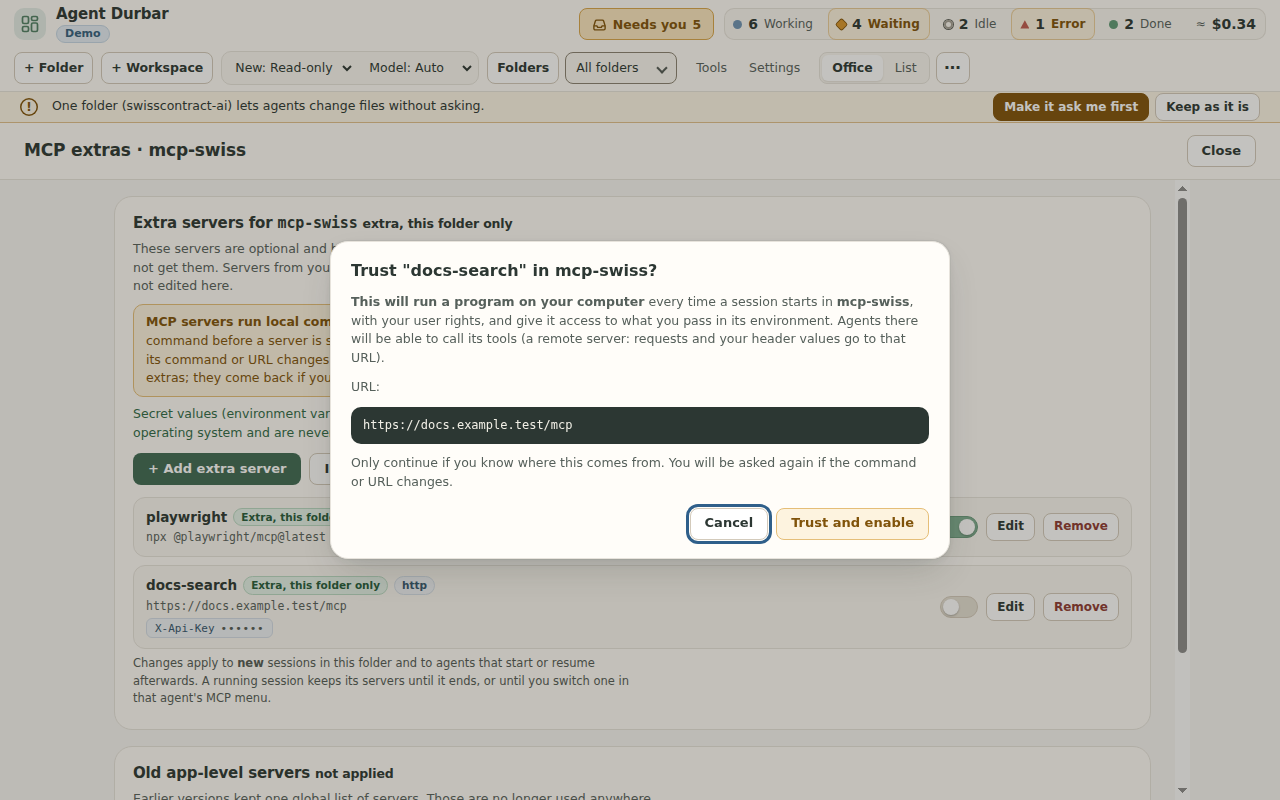
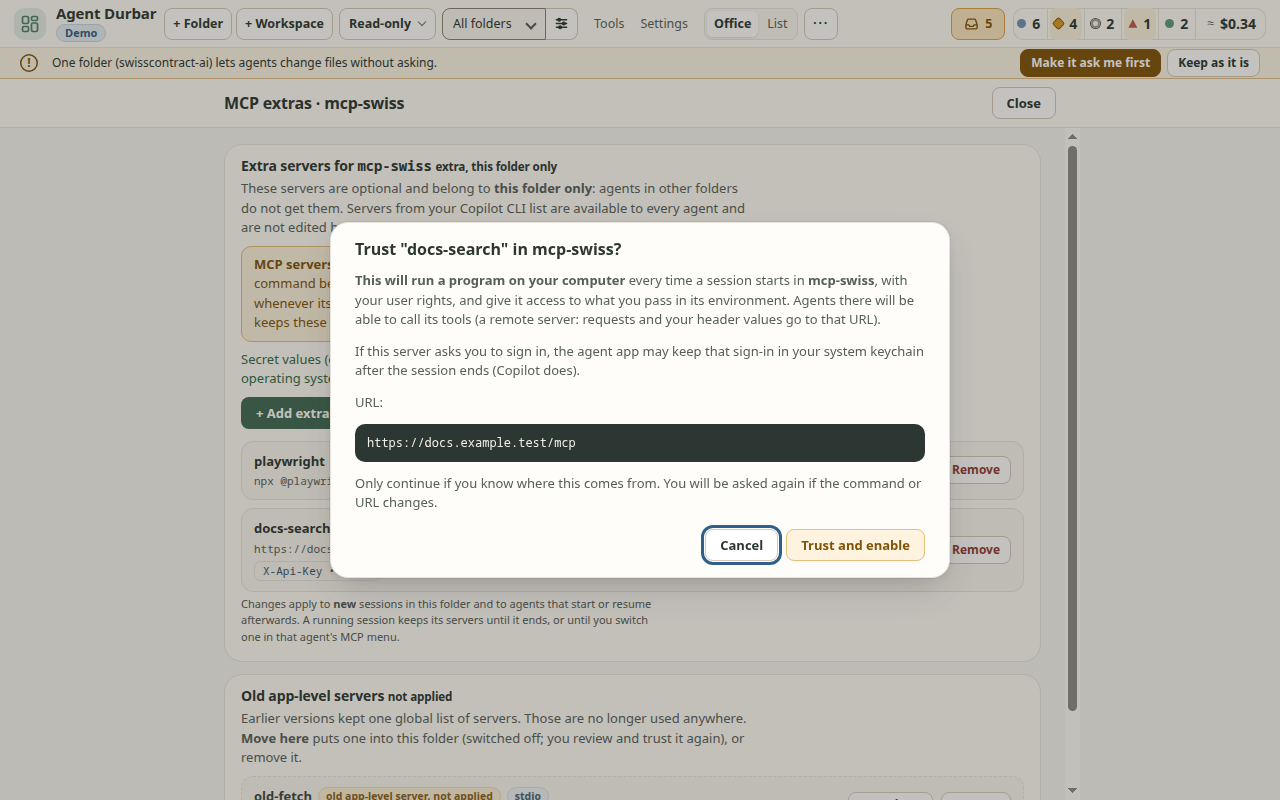
058 FR-070: Copilot sessions keep MCP sign-ins in the OS keychain
Set mcpOAuthTokenStorage: 'persistent' in the shared Copilot session
config (create, resume, reconnect re-resume; not one-shot or rename),
fake-SDK checks for each. Trust prompt for remote extras says a sign-in
may outlive the session (FR-076, T111 part). README, CHANGELOG,
agent-notes Keychain entry, spec/tasks notes; trust screenshots.

diff --git a/scripts/test-copilot-model.ts b/scripts/test-copilot-model.ts
@@ -259,6 +259,7 @@ async function main(): Promise<void> {
     assert.strictEqual(fake.created[0].model, 'auto');
     assert.ok(!('contextTier' in fake.created[0]));
     assert.strictEqual(fake.created[0].enableFileHooks, false, 'spec 061 FR-017: a repository\'s own hooks never run unasked');
+    assert.strictEqual(fake.created[0].mcpOAuthTokenStorage, 'persistent', 'spec 058 FR-070: MCP sign-ins kept in the OS keychain (create)');
     await ad.setModel(sid, { model: 'sim-deep', effort: 'high', contextTier: 'long' });
     await ad.stop(sid);
     // main saves the switched choice with the folder and passes it on the next start under the same id
@@ -270,12 +271,14 @@ async function main(): Promise<void> {
     assert.strictEqual(rc.reasoningEffort, 'high');
     assert.strictEqual(rc.contextTier, 'long_context');
     assert.ok(!('capi' in rc));
+    assert.strictEqual(rc.mcpOAuthTokenStorage, 'persistent', 'spec 058 FR-070: also on resume by session id');
     await ad.stop(sid);
     // an auto session that is resumed keeps the runtime's own routing
     const a2 = await ad.start({ workspace: dir, resumeSessionId: sid, model: 'auto', autoTier: 'efficiency', quiet: true });
     assert.ok(!('capi' in fake.resumed[1].config), 'no autoTier override on resume');
     assert.strictEqual(fake.resumed[1].config.model, 'auto');
     assert.strictEqual(fake.resumed[1].config.enableFileHooks, false, 'spec 061 FR-017: also on resume');
+    assert.strictEqual(fake.resumed[1].config.mcpOAuthTokenStorage, 'persistent', 'spec 058 FR-070: also on resume (resumeSessionId)');
     await ad.stop(a2);
     // a session id not on disk is created with exactly that id and the saved choice
     const a3 = await ad.start({ workspace: dir, sessionId: 'brand-new', model: 'sim-fast', contextTier: 'long', quiet: true });

diff --git a/src/renderer/screens.js b/src/renderer/screens.js
@@ -532,6 +532,7 @@
       const t=r.needsTrust;
       const run=t.transport==='stdio'?[t.command].concat(t.args||[]).join(' '):t.url;
       const ok=await dialog({title:'Trust "'+t.name+'" in '+st.name+'?',wide:true,html:`<p class="dsub"><b>This will run a program on your computer</b> every time a session starts in <b>${esc(st.name)}</b>, with your user rights, and give it access to what you pass in its environment. Agents there will be able to call its tools${t.transport==='stdio'?'':' (a remote server: requests and your header values go to that URL)'}.</p>
+        ${t.transport==='stdio'?'':'<p class="dsub">If this server asks you to sign in, the agent app may keep that sign-in in your system keychain after the session ends (Copilot does).</p>'}
         <p class="dsub">${t.transport==='stdio'?'Command':'URL'}:</p><pre class="trustcmd" tabindex="0">${esc(run)}</pre>${t.workingDirectory?`<p class="dsub">Working directory: <code>${esc(t.workingDirectory)}</code></p>`:''}
         <p class="dsub">Only continue if you know where this comes from. You will be asked again if the command or URL changes.</p>`,
         buttons:[{label:'Cancel',value:null},{label:'Trust and enable',value:'ok',cls:'primary warn'}]});

diff --git a/src/adapters/copilot.ts b/src/adapters/copilot.ts
@@ -568,6 +568,11 @@ export class CopilotAdapter implements AgentAdapter {
       // `.github/copilot/settings.json`) at session start and on each prompt, unasked, even in Read-only. Off until the
       // folder-setup dialog (spec 061) lets the person accept them; on create AND resume (the same config).
       enableFileHooks: false,
+      // spec 058 FR-070 (owner Q12 B): the runtime keeps an MCP server's OAuth sign-in in the OS keychain (types.d.ts: "shared
+      // across sessions"); the SDK default "in-memory" drops it when the session ends. The runtime's own store: Durbar never
+      // reads, lists or clears it. On create AND resume (the same config), so the FR-158 reconnect re-resume keeps it; not in
+      // `oneShotConfig` or `renameResumeConfig` (no MCP there).
+      mcpOAuthTokenStorage: 'persistent' as const,
     };
     this.debug?.(`mcp: servers=[${Object.keys(options.mcpServers ?? {}).join(',')}] disabled=[${(options.disabledMcpServers ?? []).join(',')}]`);
     let session: CopilotSession;

diff --git a/scripts/test-authcheck.ts b/scripts/test-authcheck.ts
@@ -168,6 +168,8 @@ void (async () => {
     // spec 061 FR-017: the reconnect re-resume keeps the folder's file hooks off, like create and resume
     assert.strictEqual(ra.enableFileHooks, false, 'refreshAuth re-resume: repository file hooks stay off (FR-017)');
     assert.strictEqual(rb.enableFileHooks, false, 'refreshAuth re-resume: repository file hooks stay off (FR-017)');
+    // spec 058 FR-070: the re-resume keeps MCP sign-ins in the OS keychain too
+    assert.strictEqual(ra.mcpOAuthTokenStorage, 'persistent', 'refreshAuth re-resume: persistent MCP token storage (058 FR-070)');
     assert.ok(c2.sessions.get(b)!.calls.some((x) => x.name === 'mcp.disable'), 'an MCP server switched off stays off');
     const intents = (sid: string) => events.filter((e) => e.sessionId === sid && e.type === 'status').map((e) => (e as { intent?: string }).intent);
     assert.ok(intents(a).includes('Reconnecting Copilot…'));

diff --git a/scripts/shots-m10.js b/scripts/shots-m10.js
@@ -76,6 +76,7 @@ module.exports = async (ctx) => {
     await shot('folder-extras', w, h);
     await click('li.srv[data-name="docs-search"] [data-act="toggle"]'); await ctx.sleep(400);
     assert.match(await text('#scrDlg'), /Trust "docs-search" in mcp-swiss/);
+    assert.match(await text('#scrDlg'), /may keep that sign-in in your system keychain/, 'spec 058 FR-076: a remote extra says a sign-in may outlive the session');
     await shot('folder-trust', w, h);
     await closeDlg(); await ctx.sleep(200);
     await closeScreen(); await ctx.sleep(300);

diff --git a/scripts/test-copilot-oneshot.ts b/scripts/test-copilot-oneshot.ts
@@ -38,6 +38,7 @@ async function main(): Promise<void> {
   assert.strictEqual(c.skipCustomInstructions, true);
   assert.strictEqual(c.enableOnDemandInstructionDiscovery, false);
   assert.strictEqual(c.enableFileHooks, false);
+  assert.ok(!('mcpOAuthTokenStorage' in c), 'spec 058 FR-070: the one-shot (no MCP) keeps the SDK default');
   assert.strictEqual(c.enableHostGitOperations, false);
   assert.strictEqual(c.enableSessionStore, false);
   assert.deepStrictEqual(c.memory, { enabled: false });

diff --git a/README.md b/README.md
@@ -84,6 +84,7 @@ Agent Durbar is an office-style desktop app to **see, chat with and coordinate A
 - **MCP servers:**
   - your Copilot CLI list (`~/.copilot/mcp-config.json`) is used first;
   - each folder can add extras (with a trust prompt), import them from `.vscode/mcp.json`, and switch a server on or off per session.
+  - Copilot sessions keep an MCP server's sign-in (OAuth) in your system keychain (the SDK's "OS keychain": Credential Manager on Windows, Keychain on macOS; on Linux the desktop keyring, not checked), so one sign-in is shared by your Durbar sessions and survives the end of a session and a restart. The Copilot runtime keeps it; Durbar never reads it. Set on create and resume and tested on the SDK fake only, not yet on a real account ([spec 058](specs/058-mcp-session-controls/spec.md) FR-070);
   - when a server asks you for input (a small form, or a sign-in page), the chat shows it with **Submit / Decline / Cancel**; a page opens in your browser only after you click, and only if it is https (simulator and test harnesses only so far, not yet tried with a real server).
 - **Tools** shows what each agent used, for *This session* and *All time*, and a **Cost** tab with each folder's ≈ money, AIU, Claude estimate, tokens and calls (the same *This session* or *All time*, with the start date under it), with **Copy as CSV**. Clicking a room's cost opens it.
 - **Activity** (Tools > Activity) is a local log for a team lead: every answer to a permission request, every automatic approval (Allow all or a session permission), and every mode or spending-limit change, with time, agent, folder, agent app and mode. It keeps the newest 5000 rows on this computer, holds actions and decisions only (never prompts, replies or file contents), and exports to CSV or JSON. Claude Code and Codex in Allow all approve inside their own process, so their automatic approvals are not listed (Copilot's are).
@@ -261,7 +262,7 @@ npm run check:fuses-launch  # on demand, after pack:dir: the packed Linux app op
 - **Windows has not been used by hand.** Linux is used every day and macOS on real Macs (from source and the simulator). A packaged-app check runs on all three in CI, and real-account end-to-end runs on all three are in review (#402), but nobody has used the Windows build on a real PC, or the packaged macOS `.dmg` day to day.
 - **Where your data lives:** the installed app keeps its settings, folders and saved MCP servers in `agent-durbar` under the OS app-data folder (`%APPDATA%` on Windows, `~/Library/Application Support` on macOS, `~/.config` on Linux). `npm start` and the simulator use their own `agent-durbar-dev` folder next to it, so developing never touches the installed app's data. To keep data from an older dev run, start once with `DURBAR_USER_DATA=<old folder>` or copy the folder by hand.
 - **Unsigned builds:** expect the OS warnings above.
-- **Keychain prompts on a Mac:** macOS may ask whether Agent Durbar can use your Keychain. Durbar's own item (`agent-durbar Safe Storage`, which protects saved MCP secret values) is read at most once per run, and only when a server with secrets starts or you change a secret; the item's name stays the same across versions. Copilot's own items (your `copilot login` and MCP sign-ins) are read by the Copilot runtime inside the app, so each can ask once too. Because the builds are not signed with an Apple Developer ID, the Keychain sees each new version as a new app: **Always Allow** holds until the next update, then each item asks once more. Code signing ([#4](https://github.com/three-feathers/agent-durbar/issues/4)) would end that. Checked with unit tests only; the number of prompts was not counted on a real Mac.
+- **Keychain prompts on a Mac:** macOS may ask whether Agent Durbar can use your Keychain. Durbar's own item (`agent-durbar Safe Storage`, which protects saved MCP secret values) is read at most once per run, and only when a server with secrets starts or you change a secret; the item's name stays the same across versions. Copilot's own items (your `copilot login` and, since Durbar asks Copilot to keep them (spec 058 FR-070), the MCP servers' sign-ins) are read and written by the Copilot runtime inside the app, so each can ask once too: expect a prompt the first time a session uses an MCP server you signed in to. Because the builds are not signed with an Apple Developer ID, the Keychain sees each new version as a new app: **Always Allow** holds until the next update, then each item asks once more. Code signing ([#4](https://github.com/three-feathers/agent-durbar/issues/4)) would end that. Checked with unit tests only; the number of prompts was not counted on a real Mac.
 - **Names in packaged builds:** the display name is `Agent Durbar` (Start menu and desktop shortcuts, Add/Remove Programs, `.app`, AppImage `Name=`), while the run-time identity stays `agent-durbar` on every OS (profile folder, Keychain, WM_CLASS). `scripts/check-names.js` compares the packed app with `package.json` on every package build. On Windows a packaged build sets the AppUserModelId `io.github.three-feathers.agentdurbar` so toasts and the taskbar match the Start menu shortcut. Checked on a real Linux build (AppImage `.desktop`, packed app started on the simulator); the Windows names and AUMID and the macOS bundle names are asserted only by the *Installed app* workflow in CI, and the taskbar, toasts, Mac menu-bar title and a Linux launcher or dock were not seen on a real desktop ([#9](https://github.com/three-feathers/agent-durbar/issues/9)).
 - **No debugger in packaged builds:** release builds ignore `--inspect`, `NODE_OPTIONS` and `ELECTRON_RUN_AS_NODE` (Electron fuses; `scripts/check-fuses.js` reads them from the packed binary on every package build on Linux, macOS and Windows: `pack:dir`, the `dist*` scripts, and so the packaged-check workflow and the release build) and always drop `remote-debugging-port` and `remote-debugging-pipe`, whatever the spelling. Run from source (`npm start`) to debug. Checked on the packed Linux build, including `-remote-debugging-port` with one dash (`npm run check:fuses-launch`); the fuse check itself has been run locally on Linux only, and macOS and Windows have not been tried by hand (on Windows Chromium also accepts `/` and any case, which the guard covers by removing the switches by name). The ASAR integrity fuse has no effect on Linux.
 - **VS Code's own chats are read-only.** VS Code keeps them in an undocumented store that cannot be continued from outside; Durbar shows a copy. Copilot CLI/SDK sessions *can* be resumed.
@@ -269,6 +270,7 @@ npm run check:fuses-launch  # on demand, after pack:dir: the packed Linux app op
 - **Floors that are off are quiet:** their agents keep running and can spend credits or wait for an approval.
 - **Schedules run only while the app is open**, and a schedule's limit counts usage from its send until that turn ends (a message you send during that turn counts too). The agent app's own schedules are only shown for Copilot and only when reported while Durbar runs; none of this has been tried on a real session yet.
 - **Session names:** the rename into Copilot, Codex and Claude Code was checked on real accounts only by another team member's agent, which ran the raw protocol and CLI calls by hand and looked at the CLI lists (Durbar's own adapters ran on fakes only), not in VS Code; Claude Code applies the name at the next message (it relies on the undocumented `CLAUDE_CODE_ENTRYPOINT` value of spec 012 FR-159 to show in `/resume`), and the VS Code Claude extension's list did not show a `-p` session at all in a real check on a Mac (untested with that value).
+- **MCP sign-ins (Copilot):** whether a sign-in you made in the Copilot CLI (`/mcp auth`) is seen by a Durbar session, and the other way round, is not verified ([spec 058](specs/058-mcp-session-controls/spec.md) FR-068/FR-074, real check T105 pending). Keeping sign-ins in the keychain (FR-070) is checked on the SDK fake only; what the runtime does on Linux without a desktop keyring was not checked.
 - **Imported MCP config:** importing from `.vscode/mcp.json` is a one-time copy per folder.
 - **Moving targets:** harness protocols change, so versions are pinned and checked.
 

diff --git a/specs/058-mcp-session-controls/spec.md b/specs/058-mcp-session-controls/spec.md
@@ -485,6 +485,12 @@ token**. Where the call is missing (older runtime, refused, not live), Durbar sh
   runtime's own store, not Durbar storage: Durbar never reads, lists, copies or clears it, and never logs the setting's effect. The
   one-shot session (spec 040 `oneShotConfig`, no MCP) is unchanged. Whether the entry is shared with the Copilot CLI is unverified
   (FR-074, T105).
+  `[IMPLEMENTED]` 2026-10-21 (the FR-070 part of T098, see *Changes* 2026-10-21): in the shared `config` of `start()` in
+  `src/adapters/copilot.ts`, so create, both resume paths and the FR-158 reconnect re-resume carry it; not in `oneShotConfig` or
+  `renameResumeConfig`. `test:` `scripts/test-copilot-model.ts` (create, resume by id, `resumeSessionId`), `scripts/test-authcheck.ts`
+  (reconnect), `scripts/test-copilot-oneshot.ts` (one-shot without it). `[KNOWN GAP]` not run on a real account: that the runtime
+  really writes the keychain entry, how many macOS Keychain prompts it adds, Linux without a desktop keyring, and sharing with the
+  CLI (T105).
 - **FR-071** **Simulator** (constitution IV): page address `simmcpauth=1` gives each sim kind one server in needs-auth and a Copilot tool
   card with the issue's exact text; **Sign in** -> host `auth.example.com` -> **Open sign-in page** shows a toast and opens nothing ->
   "Running" after 2 s (Codex: "applies with your next message"). `simmcpauth=manual` shows the FR-068 steps instead.
@@ -508,6 +514,10 @@ token**. Where the call is missing (older runtime, refused, not live), Durbar sh
   per-folder extra stays in the OS keychain after the session ends. The per-folder extras trust confirmation (spec 019) gets one
   more sentence: "If one of these servers asks you to sign in, <App> may keep that sign-in in your system keychain after the session
   ends." The FR-069 waiting text says the same for Copilot ("Copilot keeps this sign-in in your system keychain").
+  `[IMPLEMENTED]` 2026-10-21 for the trust confirmation, remote extras only (a stdio server has no OAuth sign-in), with the app left
+  generic because the confirmation belongs to the folder, not to one agent app: "If this server asks you to sign in, the agent app may
+  keep that sign-in in your system keychain after the session ends (Copilot does)." (`src/renderer/screens.js`, `sim:`
+  `scripts/shots-m10.js`, screenshots `m10-folder-trust-*`). The waiting text waits for T102.
 - **FR-074** `[KNOWN GAP]` Until the real checks (tasks T105-T107, needs-owner-approval, 0 AI credits, no prompt) run, everything above is
   `read:`: the three login calls, the Claude stream-json handler (the docs say `-p` and SDK runs cannot sign in; the 2.1.304 program
   strings handle `mcp_authenticate` there), whether Codex 0.163 has `mcpServer/oauth/login`, how long each runtime's callback listener
@@ -555,3 +565,18 @@ below as the record of what was offered.
   these servers* by itself after the sign-in.
 - **Q19 "Sign in with another account"** (Copilot `forceReauth`, Claude `mcp_clear_auth`). A) Not offered now (recommended). B) Offer it in
   the row's *Details*.
+
+### 2026-10-21: Copilot keeps MCP sign-ins (FR-070 and the T111 wording first)
+
+**Why now**: the owner (Vikram) found on Windows that an MCP sign-in made in one Durbar Copilot session was not kept for the next
+one: `src/adapters/copilot.ts` never set `mcpOAuthTokenStorage`, so the SDK default `in-memory` applied (`read:`
+`types.d.ts:2386-2393`). FR-070 is independent of the sign-in flow (T098's `startMcpSignIn`), so it ships on its own.
+
+**Who**: by agreement in the team chat, Vikram's agent takes the FR-070 part of **T098** and the trust-confirmation part of **T111**
+(FR-076); Paco (spec owner) keeps the rest of T098 (`startMcpSignIn`, fake SDK recorder) and T111's waiting text (with T102). Task
+numbers and Paco's open work (PR #466, branch `058-mcp-oauth-impl`, T112-T115) are unchanged; T098 is ticked by Paco's PR when its
+sign-in part lands.
+
+**Done**: FR-070 `[IMPLEMENTED]`; FR-076 trust sentence `[IMPLEMENTED]`; README *MCP servers*, *Keychain prompts on a Mac* and a
+*Known limits* line (Copilot CLI sharing unverified, FR-068/FR-074, T105); CHANGELOG. Not run on a real account.
+

diff --git a/CHANGELOG.md b/CHANGELOG.md
@@ -10,6 +10,7 @@ Agent Durbar is an alpha. Builds are unsigned and have only been run by hand on 
 - Test tooling only: every simulator driver now takes its helpers (`js`, click, key, page load, screenshot, escaping of values put into page code) from `scripts/driver-helpers.js` instead of its own copy; no check was changed (spec 008 FR-097, T094, #414).
 - **Security:** Copilot sessions no longer run a repository's own hooks (`.github/hooks/`, `.github/copilot/settings.json`) unasked. A real check found the Copilot runtime ran them by default, even in Read-only; they stay off until the folder-setup dialog (spec 061) lets you accept them.
 - **Fewer Keychain prompts on a Mac** (spec 019 FR-023; owner's report "a ton of allow prompts when I open Durbar"). Durbar decrypted every saved MCP secret value at launch, one Keychain read each, even for servers that never start. Now all values are one encrypted blob that is read at most once per run, only when a server with secrets starts or you change a secret; opening the app or Settings reads nothing. Saved files are converted on that first read. "Always Allow" still has to be given again after each update while builds are unsigned (#4); Copilot's own Keychain items can also ask. Unit tests with a counting fake; not run on a real Mac.
+- **MCP sign-ins kept between Copilot sessions** (spec 058 FR-070, owner's Q12 B; owner's report on Windows). Copilot sessions now ask the runtime to keep an MCP server's OAuth sign-in in the system keychain (Credential Manager on Windows, Keychain on macOS) instead of the SDK default, memory only, which dropped it when the session ended. One sign-in now serves every Durbar Copilot session; Durbar never reads it. The trust prompt for a remote per-folder extra says a sign-in may outlive the session (FR-076). On a Mac the runtime's Keychain items can ask once each (not counted on a real Mac). Tested on the SDK fake only; sharing with a sign-in made in the Copilot CLI is not verified (T105).
 
 - **+ Folder and + Workspace are back in plain sight** (spec 052 FR-164, owner request): two labelled buttons at the left end of the top bar, first in tab order, instead of the **+ New** menu; **Ctrl+O** / **Ctrl+Shift+O** press them, and on a Mac a **File** menu has **Add Folder…** (⌘O), **Add VS Code Workspace…** (⇧⌘O) and **Close Window**. Same code path as the buttons. To keep one row, the counters keep their words from 1920px, the Defaults chip shows only the mode below 1600px, and the app name gives way to its mark when the row would wrap. Simulator and unit tests on Linux; not run on a real Mac or Windows PC.
 - **A session comes back in its own permission mode, and says so** (spec 003, 2026-10-21 delta; owner's report "a session I had set to Allow all came back in Read-only"). Durbar remembered one mode per folder, so after a restart every session of a folder took the mode last chosen in *any* of its sessions, and a session resumed from *Previous sessions* took the mode of the session you opened the list from, both without a word. Now each session's last mode is kept (ids and modes only, newest 50 per folder) and restored; the chat says which mode it is in and why, an Allow all shows *restored* on the chip, and a resumed session in another mode than its opener is logged in the activity log. Unit tests and a simulator check (`shots-003-mode-back`); not run on a real session.

diff --git a/docs/agent-notes.md b/docs/agent-notes.md
@@ -44,7 +44,7 @@ Each entry has the date it was learned, what happened, and how to apply it, with
 ## Electron and platform behaviour
 
 - **`safeStorage` is keyed by the app name** (2026-10-20, `real:` Linux gnome-libsecret; `read:` Electron source for macOS Keychain). Calling `app.setName()` **before** `ready` makes a new key, so secrets saved under the old name no longer decrypt; calling it inside `whenReady` kept the old key in the test. Durbar does not call `setName` at all (PR #377): the identity stays `agent-durbar` and only the menu labels say "Agent Durbar". Do not add a `setName` call; `test-profiledir` fails if you do.
-- **macOS Keychain and unsigned builds** (2026-10-21, `read:` Chromium `os_crypt_mac`, Apple Keychain docs; not seen on a Mac). Every `safeStorage` call, `isEncryptionAvailable()` included, can read the Keychain item `agent-durbar Safe Storage`, and an app the item does not trust gets a prompt. Ad-hoc signed builds (`identity: "-"`) are a new app to the Keychain after every update, so "Always Allow" does not survive an update. How to apply: never decrypt in a loop or at load; keep secrets in one blob read lazily once per run (`McpStore`, spec 019 FR-023), and test it with a counting fake codec. The Copilot runtime inside the bundle reads Copilot's own Keychain items too; those prompts are not Durbar's store.
+- **macOS Keychain and unsigned builds** (2026-10-21, `read:` Chromium `os_crypt_mac`, Apple Keychain docs; not seen on a Mac). Every `safeStorage` call, `isEncryptionAvailable()` included, can read the Keychain item `agent-durbar Safe Storage`, and an app the item does not trust gets a prompt. Ad-hoc signed builds (`identity: "-"`) are a new app to the Keychain after every update, so "Always Allow" does not survive an update. How to apply: never decrypt in a loop or at load; keep secrets in one blob read lazily once per run (`McpStore`, spec 019 FR-023), and test it with a counting fake codec. The Copilot runtime inside the bundle reads Copilot's own Keychain items too; those prompts are not Durbar's store. Since spec 058 FR-070 (2026-10-21, `read:` SDK `types.d.ts` `mcpOAuthTokenStorage`) Copilot sessions set `persistent`, so the runtime also writes and reads MCP OAuth sign-ins in the OS keychain: expect up to one more prompt per signed-in server on a Mac (not counted on a real Mac). Do not "fix" those prompts by switching back to `in-memory`: that loses the sign-in at every session end (owner's Q12 B).
 - **Profile folders** (PR #377): installed builds use `<appData>/agent-durbar`, `npm start` and the simulator use `<appData>/agent-durbar-dev`, and `DURBAR_USER_DATA` (dev hooks on) wins. Use `DURBAR_USER_DATA=<folder>` to run against an existing profile.
 
 - **A `src/shared` module in the page** (2026-10-21, `real:` simulator, spec 001 FR-031). The renderer has no bundler, but a shared module with **no imports** (like `redact.ts`) can load as a plain script from `../shared/<name>.js` after `exports-shim.js` (`self.exports={}`). Keep that global: tsc's CommonJS output reads its own exported constants back as `exports.NAME` at call time, so deleting `exports` after load makes every call fail (`redact()` then returns `[redaction failed]`). `test-liveact` fails if `redact.ts` gains an import. Reuse this instead of copying masking rules into `src/renderer`.

diff --git a/specs/058-mcp-session-controls/tasks.md b/specs/058-mcp-session-controls/tasks.md
@@ -182,6 +182,11 @@ Record results in research.md section 7 and change `read:` to `real:`. Do not op
   CHANGELOG *Unreleased* line; specs index row; spec 019 `[KNOWN GAP]` line from "specified" to "built" [FR-074]
 - [ ] T109 `/speckit-converge` for the delta: spec, plan and tasks match what was built; tick tasks
 
+**Note 2026-10-21 (spec *Changes* 2026-10-21; numbers unchanged).** Done ahead of the PR sequence, by agreement in the team chat
+(Vikram's agent): the FR-070 part of T098 (`mcpOAuthTokenStorage: 'persistent'` on create, resume and the reconnect re-resume, with
+fake SDK checks in `test-copilot-model`, `test-authcheck` and `test-copilot-oneshot`) and the trust-confirmation part of T111 (remote
+extras only). T098 stays open for `startMcpSignIn`; T111 stays open for the Copilot waiting text (T102).
+
 ## Out of scope (owner decisions 2026-10-20)
 
 - No in-app log viewer (Q5); T080 removed. A viewer would need a new spec and the owner's approval.
